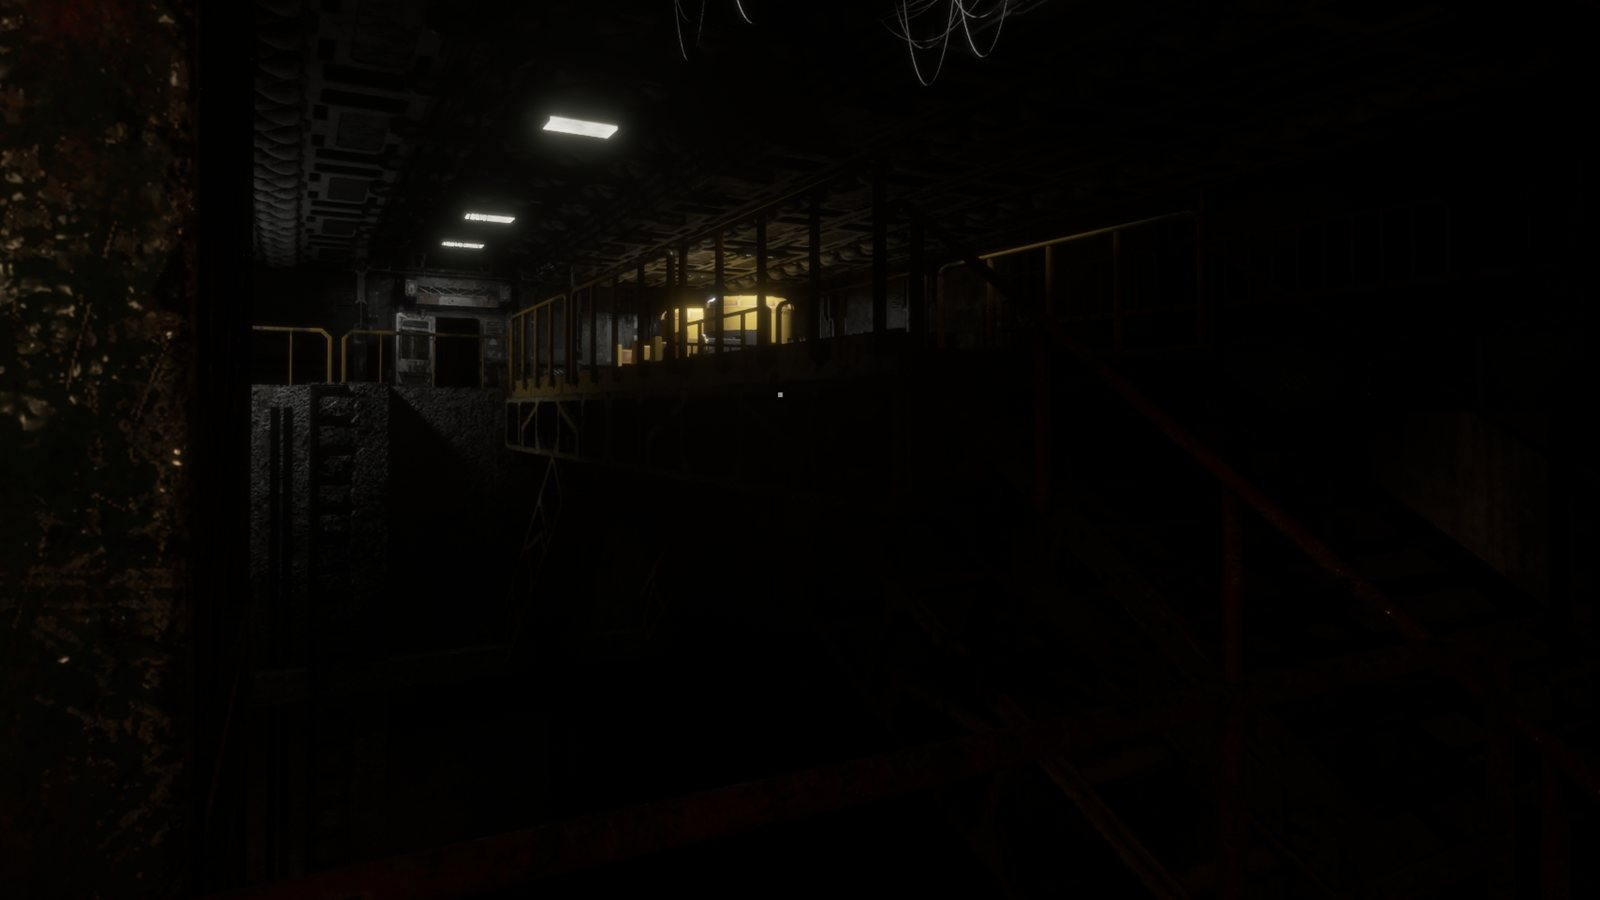
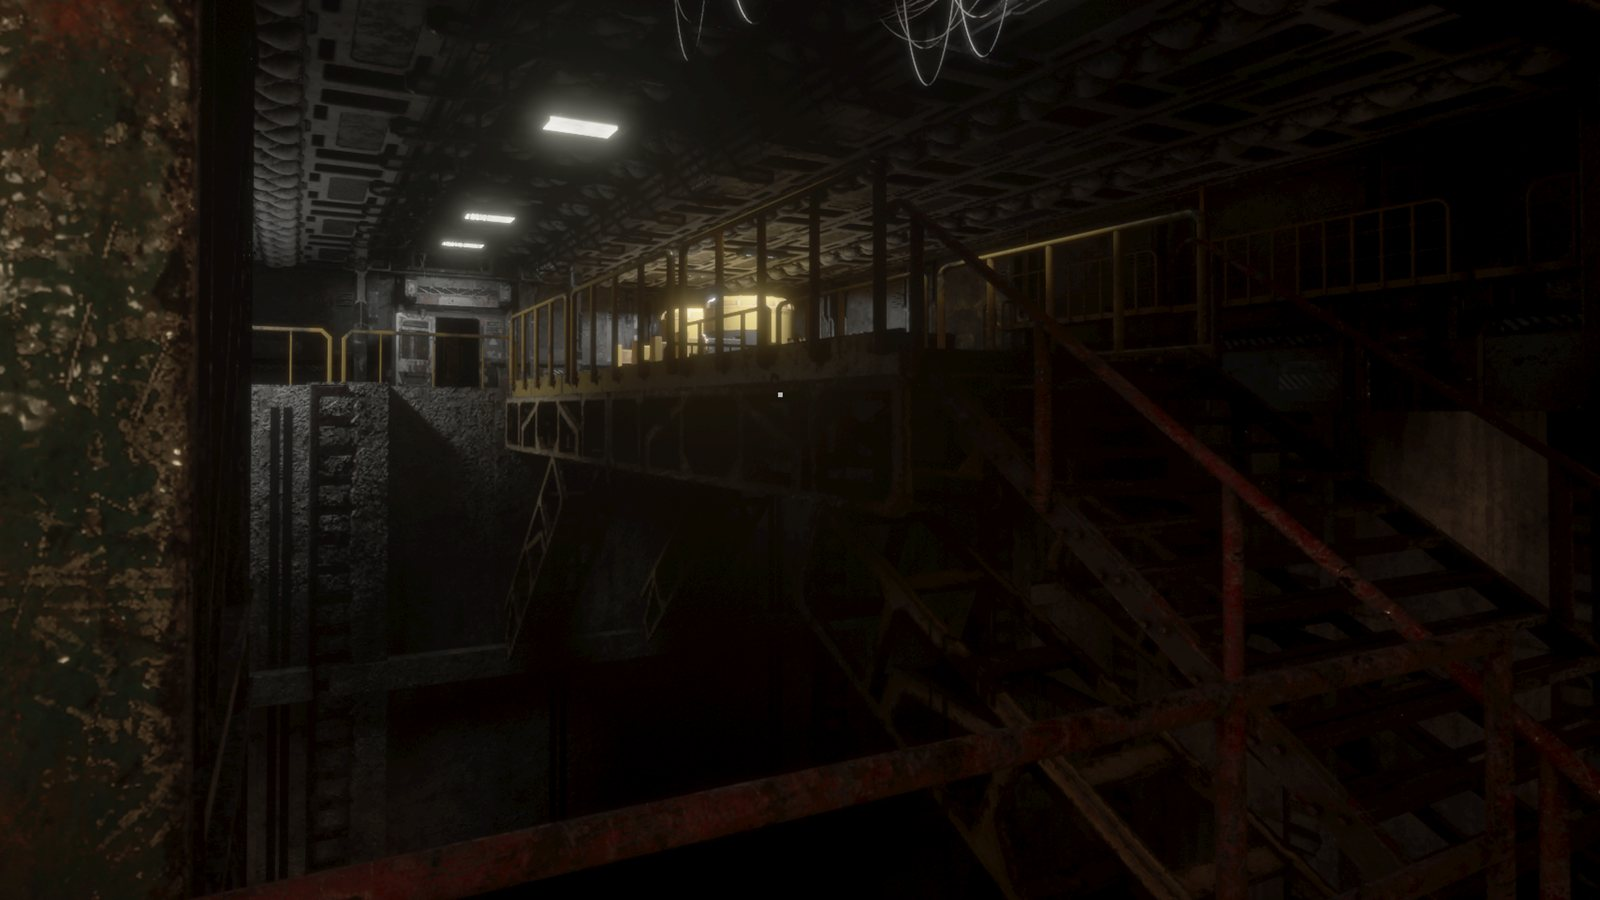
Fix dark screenshots on mobile: gamma lift + no filter on touch
shaft/catwalk re-exported with 0.6 gamma shadow lift (core 0.8) so
detail survives OLED true blacks; CSS contrast bump removed and the
desaturation filter disabled on hover-less (touch) devices, which could
never reach the hover-lightened state.

Claude-Session: https://claude.ai/code/session_017VcD3W7zVhnCD3cALAtixH

diff --git a/index.html b/index.html
@@ -208,10 +208,14 @@
     border: 1px solid var(--seam);
     display: block;
     cursor: zoom-in;
-    filter: saturate(0.72) contrast(1.06);
+    filter: saturate(0.85);
     transition: filter 0.25s;
   }
-  .cam:hover img { filter: saturate(0.95) contrast(1.06); }
+  .cam:hover img { filter: saturate(1); }
+  /* touch devices never fire the hover-lighten — serve feeds unfiltered */
+  @media (hover: none) {
+    .cam img { filter: none; }
+  }
   .cam img:focus-visible { outline: 2px solid var(--phosphor); outline-offset: 3px; }
   /* interlace scanlines over the feed */
   .cam::after {
